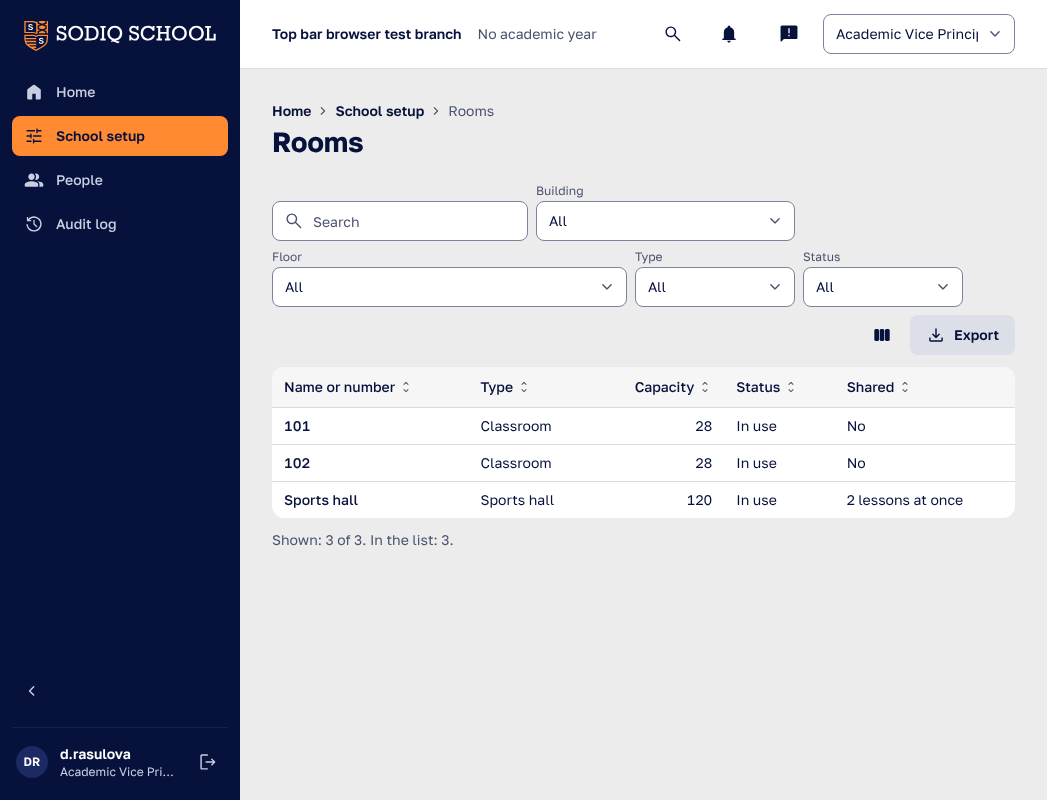
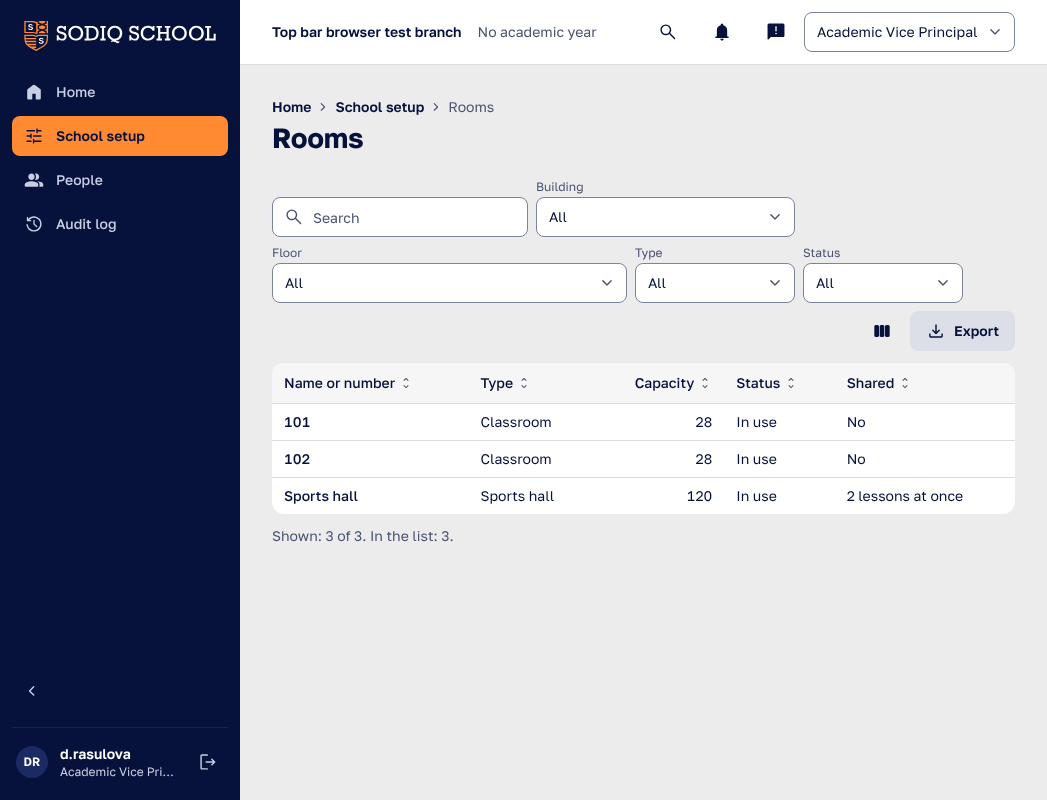
2.7b-2 Act on the spec review: languages on Save, a 64 high top bar, Cancel off while sending, follow after a reset
Claude-Session: https://claude.ai/code/session_01CGzWZPCQzFR3ZsXJGFE4GL

diff --git a/apps/web/src/components/form/use-record-form.ts b/apps/web/src/components/form/use-record-form.ts
@@ -23,7 +23,9 @@ interface RecordFormOptions<Field extends string, Values> {
    * Fields that say what is wrong only after a Save pressed while they were
    * drawn, never as they are ticked: the checkbox groups that must hold one
    * choice (issue #39, hand test of 13 October 2026, finding 21; task 2.7b-2,
-   * decision 2). A group drawn after Save was pressed waits for the next Save.
+   * decision 2). Only a field drawn and wrong at the press shows its message;
+   * a group drawn, or turned wrong, after Save was pressed waits for the next
+   * Save, and so does one taken away and drawn again.
    */
   checkedOnSave?: readonly NoInfer<Field>[];
   /**
@@ -84,7 +86,11 @@ export function useRecordForm<Field extends string, Values>({
   const [touched, setTouched] = useState<ReadonlySet<Field>>(new Set());
   const [pressed, setPressed] = useState(false);
   // The fields drawn when Save was last pressed (`checkedOnSave`).
-  const [pressedDrawn, setPressedDrawn] = useState<ReadonlySet<Field>>(new Set());
+  const pressedDrawn = useRef<Set<Field>>(new Set());
+  // Each press of Save draws the form again, so `pressedDrawn` is read.
+  const [, setPresses] = useState(0);
+  // How often the form was reset, for `followInitial` to look again.
+  const [resetCount, setResetCount] = useState(0);
   const [status, setStatus] = useState<FormStatus>('idle');
   const [failure, setFailure] = useState<unknown>(null);
 
@@ -95,7 +101,7 @@ export function useRecordForm<Field extends string, Values>({
 
   const errorOf = (field: Field): string | undefined => {
     const shows = checkedOnSave.includes(field)
-      ? pressedDrawn.has(field)
+      ? pressedDrawn.current.has(field)
       : pressed || touched.has(field);
     if (checked.success || !shows) {
       return undefined;
@@ -144,17 +150,30 @@ export function useRecordForm<Field extends string, Values>({
     setSaved(next);
     setTouched(new Set());
     setPressed(false);
-    setPressedDrawn(new Set());
+    pressedDrawn.current = new Set();
     // Read again once a save is over (`status`): the answer may hold what was
     // sent in the server's own order.
-  }, [followInitial, initialText, status]);
+  }, [followInitial, initialText, status, resetCount]);
 
   // The fields bound in this render: what is drawn when Save is pressed.
   const drawn = new Set<Field>();
+  // A group taken away after a Save waits for the next Save when it is drawn
+  // again: it leaves `pressedDrawn` once a render no longer binds it.
+  // `boundNow` collects the binds of a render; read and emptied once it is on screen.
+  const boundNow = useRef<Set<Field>>(new Set());
+  useEffect(() => {
+    for (const field of pressedDrawn.current) {
+      if (!boundNow.current.has(field)) {
+        pressedDrawn.current.delete(field);
+      }
+    }
+    boundNow.current = new Set();
+  });
 
   return {
     bind: (field) => {
       drawn.add(field);
+      boundNow.current.add(field);
       return {
         name: field,
         value: typed[field],
@@ -184,7 +203,13 @@ export function useRecordForm<Field extends string, Values>({
         return true;
       }
       setPressed(true);
-      setPressedDrawn(new Set(drawn));
+      // Only what was drawn and wrong at this press: a group that turns wrong
+      // later (a subject ticked after a Save) waits for the next Save.
+      const wrong = new Set(
+        checked.success ? [] : checked.error.issues.map((issue) => issue.path[0]),
+      );
+      pressedDrawn.current = new Set([...drawn].filter((field) => wrong.has(field)));
+      setPresses((before) => before + 1);
       if (!checked.success) {
         return false;
       }
@@ -223,11 +248,12 @@ export function useRecordForm<Field extends string, Values>({
     settled: () => flight.current ?? Promise.resolve(),
     reset: () => {
       resets.current += 1;
+      setResetCount((before) => before + 1);
       typedNow.current = savedNow.current;
       setTyped(savedNow.current);
       setTouched(new Set());
       setPressed(false);
-      setPressedDrawn(new Set());
+      pressedDrawn.current = new Set();
       setStatus('idle');
       setFailure(null);
     },

diff --git a/apps/web/src/features/people/staff-page.test.tsx b/apps/web/src/features/people/staff-page.test.tsx
@@ -555,9 +555,6 @@ const headingsDrawn = (): string[] =>
     .filter((cell) => cell.querySelector('input') === null)
     .map((cell) => cell.textContent ?? '');
 
-// Task 2.2c-1: the Export button of the list, for the Principal too (`02`:
-// "Exports are allowed"), and the columns of the file are those of the screen,
-// with the same headings (`EXPORT_TEXTS` of `packages/shared`).
 // Issue #39, hand test of 13 October 2026, findings 18 and 21 (task 2.7b-2).
 describe('the subjects and languages of a staff member', () => {
   const teachingForm = async () => {
@@ -589,6 +586,26 @@ describe('the subjects and languages of a staff member', () => {
     expect(calls.some((call) => call.route.endsWith('/teaching'))).toBe(false);
   });
 
+  // Review of the build: the languages are a group that must hold one choice.
+  it('says nothing of the languages as they are unticked after a Save, and asks on the next Save', async () => {
+    const calls = openList('academic_vice_principal');
+    const form = await teachingForm();
+    const languages = () =>
+      within(form).getByRole('group', { name: en.people.staff.languagesTitle });
+    fireEvent.click(within(grades(form)).getByLabelText('Grade 5'));
+    fireEvent.click(within(grades(form)).getByLabelText('Grade 6'));
+    fireEvent.click(within(form).getByRole('button', { name: en.form.save }));
+    fireEvent.click(within(languages()).getByLabelText(en.people.staff.languages.uz));
+    fireEvent.click(within(languages()).getByLabelText(en.people.staff.languages.ru));
+    expect(within(languages()).queryByText(en.form.required)).toBeNull();
+    expect(within(languages()).queryByText(en.form.chooseOne)).toBeNull();
+
+    fireEvent.click(within(form).getByRole('button', { name: en.form.save }));
+
+    expect(within(languages()).getByText(en.form.chooseOne)).toBeDefined();
+    expect(calls.some((call) => call.route.endsWith('/teaching'))).toBe(false);
+  });
+
   it('keeps "Saved." after a save that changes the subjects', async () => {
     let detail = detailOf(AKMAL);
     openList('academic_vice_principal', {
@@ -612,6 +629,9 @@ describe('the subjects and languages of a staff member', () => {
   });
 });
 
+// Task 2.2c-1: the Export button of the list, for the Principal too (`02`:
+// "Exports are allowed"), and the columns of the file are those of the screen,
+// with the same headings (`EXPORT_TEXTS` of `packages/shared`).
 describe('the export of the staff list', () => {
   it('is offered, and the columns of the screen are those of the file, with its headings', async () => {
     openList('principal');

diff --git a/apps/web/src/components/form/use-record-form.test.tsx b/apps/web/src/components/form/use-record-form.test.tsx
@@ -135,6 +135,23 @@ describe('a field checked on Save', () => {
   });
 });
 
+describe('a field checked on Save, taken away and drawn again', () => {
+  // Review of the build of task 2.7b-2: the group waits for the next Save.
+  it('waits for the next Save', async () => {
+    render(
+      <Wrap>
+        <DaysForm onSave={() => Promise.resolve()} />
+      </Wrap>,
+    );
+    set('more', 'on');
+    await pressSave();
+    expect(message('days')).toBe(en.form.chooseOne);
+    set('more', '');
+    set('more', 'on');
+    expect(message('days')).toBe('');
+  });
+});
+
 /** A record kept by its page; the form follows it and saves into it. */
 function Following({ start }: { start: string }) {
   const [note, setNote] = useState(start);
@@ -156,6 +173,9 @@ function Following({ start }: { start: string }) {
         }}
       >
         elsewhere
+      </button>
+      <button type="button" onClick={form.reset}>
+        reset
       </button>
       <RecordForm form={form} label="Note">
         <Input label="note" binding={form.bind('note')} />
@@ -200,5 +220,19 @@ describe('a form that follows what it shows', () => {
     set('note', 'typing');
     fireEvent.click(screen.getByRole('button', { name: 'elsewhere' }));
     expect(note()).toBe('typing');
+  });
+
+  // Review of the build of task 2.7b-2: a value skipped while typing is taken
+  // once the typing is dropped.
+  it('takes the skipped value once what was typed is dropped', () => {
+    render(
+      <Wrap>
+        <Following start="first" />
+      </Wrap>,
+    );
+    set('note', 'typing');
+    fireEvent.click(screen.getByRole('button', { name: 'elsewhere' }));
+    fireEvent.click(screen.getByRole('button', { name: 'reset' }));
+    expect(note()).toBe('changed elsewhere');
   });
 });

diff --git a/apps/web/src/features/people/availability-vacancies.test.tsx b/apps/web/src/features/people/availability-vacancies.test.tsx
@@ -426,6 +426,10 @@ describe('the vacancies', () => {
         closed = true;
         return json(vacancyDetail({ ...OPEN, status: 'closed' }));
       },
+      [`POST /api/people/vacancies/${OPEN.id}/reopen`]: () => {
+        closed = false;
+        return json(vacancyDetail(OPEN));
+      },
       [`POST /api/people/vacancies/${OPEN.id}/delete`]: () => nothing(),
     });
     renderApp(`/people/vacancies?open=${OPEN.id}`);
@@ -434,6 +438,17 @@ describe('the vacancies', () => {
     const reopen = await within(panel).findByRole('button', { name: en.people.vacancies.reopen });
     // Finding 18: the close is said to be saved, beside its button.
     expect(reopen.parentElement?.querySelector('[role="status"]')?.textContent).toBe(en.form.saved);
+    // Reopened: the sign goes while it is on its way and comes with the answer.
+    fireEvent.click(reopen);
+    const closeAgain = await within(panel).findByRole('button', {
+      name: en.people.vacancies.close,
+    });
+    await waitFor(() => {
+      expect(closeAgain.parentElement?.querySelector('[role="status"]')?.textContent).toBe(
+        en.form.saved,
+      );
+    });
+    expect(calls.some((call) => call.route.endsWith('/reopen'))).toBe(true);
     fireEvent.click(within(panel).getByRole('button', { name: en.people.vacancies.delete }));
     const dialog = await screen.findByRole('alertdialog');
     expect(within(dialog).getByText(OPEN.name)).toBeDefined();

diff --git a/apps/web/src/features/sample/sample-list.test.tsx b/apps/web/src/features/sample/sample-list.test.tsx
@@ -61,13 +61,15 @@ const selectedText = (count: number): string =>
 /**
  * The status of the page. The top bar has one of its own (the sign of unsaved
  * changes, task 0.8b-2), so a test looks inside `main`; the selection has its
- * own (`selectionStatus`, task 2.7b-2), so this is the one that is busy.
+ * own (`selectionStatus`, task 2.7b-2), so this is the other one.
  */
-const pageStatus = () =>
-  within(screen.getByRole('main'))
+const pageStatus = (): HTMLElement => {
+  const found = within(screen.getByRole('main'))
     .getAllByRole('status')
-    .filter((status) => status.getAttribute('aria-busy') === 'true')
-    .at(0) ?? null;
+    .filter((status) => status.dataset.slot !== 'selection-status');
+  expect(found).toHaveLength(1);
+  return found[0] as HTMLElement;
+};
 
 /**
  * The one live region of the selection (task 2.7b-2, finding 13): visually
@@ -628,10 +630,6 @@ describe('the states of a list', () => {
     await openList(`${PATH}?demo=loading`);
 
     const outline = pageStatus();
-    expect(outline).not.toBeNull();
-    if (outline === null) {
-      return;
-    }
     expect(outline.getAttribute('aria-busy')).toBe('true');
     expect(within(outline).getByRole('columnheader', { name: en.sample.name })).toBeDefined();
     expect(within(outline).getAllByRole('row')).toHaveLength(9);

diff --git a/apps/web/src/features/people/availability-section.tsx b/apps/web/src/features/people/availability-section.tsx
@@ -107,19 +107,22 @@ export function AvailabilitySection({ id, label }: { id: string; label: string }
     body = (
       <>
         <Entries entries={data.entries} today={data.today} days={days} />
-        {canEdit && !changing && (
+        {/* The sign is always in the page, so it is read out when it arrives. */}
+        {canEdit && (
           <div className="flex flex-wrap items-center gap-3">
-            <Button
-              variant="secondary"
-              size="sm"
-              onClick={() => {
-                setChanging(true);
-                setSavedFor(null);
-              }}
-            >
-              {t('people.availability.change')}
-            </Button>
-            <SavedSign saved={savedFor === id} />
+            {!changing && (
+              <Button
+                variant="secondary"
+                size="sm"
+                onClick={() => {
+                  setChanging(true);
+                  setSavedFor(null);
+                }}
+              >
+                {t('people.availability.change')}
+              </Button>
+            )}
+            <SavedSign saved={savedFor === id && !changing} />
           </div>
         )}
         {canEdit && changing && (

diff --git a/apps/web/src/features/setup/rooms-page.test.tsx b/apps/web/src/features/setup/rooms-page.test.tsx
@@ -128,7 +128,7 @@ describe('the room list', () => {
 
   // Issue #39, hand test of 13 October 2026, finding 14 (task 2.7b-2, decision
   // 3): at a laptop width the list leaves out Building and Floor first.
-  it('leaves out Building and Floor below 1280 px, and draws them from 1280 px', async () => {
+  it('leaves out Building and Floor below 1280 px', async () => {
     setWindowWidth(1047);
     await openList();
     await waitFor(() => {
@@ -139,6 +139,19 @@ describe('the room list', () => {
       [...document.querySelectorAll('thead th')].map((cell) => cell.textContent ?? '');
     expect(headers()).not.toContain(en.setup.rooms.building);
     expect(headers()).not.toContain(en.setup.rooms.floor);
+  });
+
+  it('draws Building and Floor from 1280 px', async () => {
+    setWindowWidth(1280);
+    await openList();
+    await waitFor(() => {
+      expect(rowsDrawn()).toHaveLength(3);
+    });
+    const headers = [...document.querySelectorAll('thead th')].map(
+      (cell) => cell.textContent ?? '',
+    );
+    expect(headers).toContain(en.setup.rooms.building);
+    expect(headers).toContain(en.setup.rooms.floor);
   });
 
   it('filters by status and by floor', async () => {

diff --git a/apps/web/src/features/people/staff-panel.tsx b/apps/web/src/features/people/staff-panel.tsx
@@ -560,8 +560,14 @@ function TeachingForm({
     }),
     // Finding 21: a subject's grades say what is missing on Save, under that
     // subject's grades.
-    checkedOnSave: (Object.keys(initial) as Fields[]).filter(isGradesField),
-    message: (field) => (isGradesField(field) ? t('form.chooseGrade') : undefined),
+    // The languages too: a subject needs one (review of the build, must fix 1).
+    checkedOnSave: [...(Object.keys(initial) as Fields[]).filter(isGradesField), 'languages'],
+    message: (field) =>
+      isGradesField(field)
+        ? t('form.chooseGrade')
+        : field === 'languages'
+          ? t('form.chooseOne')
+          : undefined,
     save: onSave,
   });
   const chosen = listValues(form.bind('subjects').value);

diff --git a/apps/web/src/features/people/vacancy-form.tsx b/apps/web/src/features/people/vacancy-form.tsx
@@ -92,8 +92,14 @@ export function VacancyForm({
     }),
     // Finding 21: a subject's grades say what is missing on Save, under that
     // subject's grades.
-    checkedOnSave: (Object.keys(initial) as Fields[]).filter(isGradesField),
-    message: (field) => (isGradesField(field) ? t('form.chooseGrade') : undefined),
+    // The languages too: a subject needs one (review of the build, must fix 1).
+    checkedOnSave: [...(Object.keys(initial) as Fields[]).filter(isGradesField), 'languages'],
+    message: (field) =>
+      isGradesField(field)
+        ? t('form.chooseGrade')
+        : field === 'languages'
+          ? t('form.chooseOne')
+          : undefined,
     save: onSave,
   });
   const department = form.bind('departmentId').value;

diff --git a/apps/web/e2e/design.spec.ts b/apps/web/e2e/design.spec.ts
@@ -174,8 +174,8 @@ test('the top bar is one row at laptop width, Rooms fits, and More shows Send fe
   ] as const) {
     await page.setViewportSize({ width, height });
     const measured = await widths(page);
-    // One row: no taller than a row of 44 px controls and its padding.
-    expect(measured.bar, `top bar at ${String(width)} px`).toBeLessThanOrEqual(69);
+    // One row, 64 high and its bottom border (docs/design-system.md, Top bar).
+    expect(measured.bar, `top bar at ${String(width)} px`).toBeLessThanOrEqual(65);
     expect(measured.barFits).toBe(true);
     expect(measured.pageFits).toBe(true);
     await screenshot(page, `top-bar-${String(width)}`, SCREENS_27B2);

diff --git a/apps/web/src/features/feedback/feedback-button.tsx b/apps/web/src/features/feedback/feedback-button.tsx
@@ -53,7 +53,12 @@ export function FeedbackButton({ withWord = false }: { withWord?: boolean }) {
         }
       }}
     >
-      <DialogTrigger render={<Button variant="ghost" />}>
+      {/* Icon only below 1280 px: square, as every icon button (docs/design-system.md, Buttons). */}
+      <DialogTrigger
+        render={
+          <Button variant="ghost" className={withWord ? undefined : 'max-xl:size-10 max-xl:px-0'} />
+        }
+      >
         <FeedbackIcon aria-hidden />
         <span className={withWord ? undefined : 'sr-only xl:not-sr-only'}>
           {t('feedback.button')}

diff --git a/apps/web/src/features/people/parent-panel.tsx b/apps/web/src/features/people/parent-panel.tsx
@@ -304,7 +304,12 @@ function TakenChoices({
         {taken.holder.mergeable &&
           choose('merge', t('people.relatives.mergeWith', { name: holderName }))}
         {choose('owner', t('people.relatives.newOwner'))}
-        <Button variant="secondary" onClick={cancel}>
+        {/* Off while a merge or a new owner is on its way: it would land after Cancel. */}
+        <Button
+          variant="secondary"
+          disabled={merge.isPending || owner.status === 'saving'}
+          onClick={cancel}
+        >
           {t('confirm.cancel')}
         </Button>
       </div>
